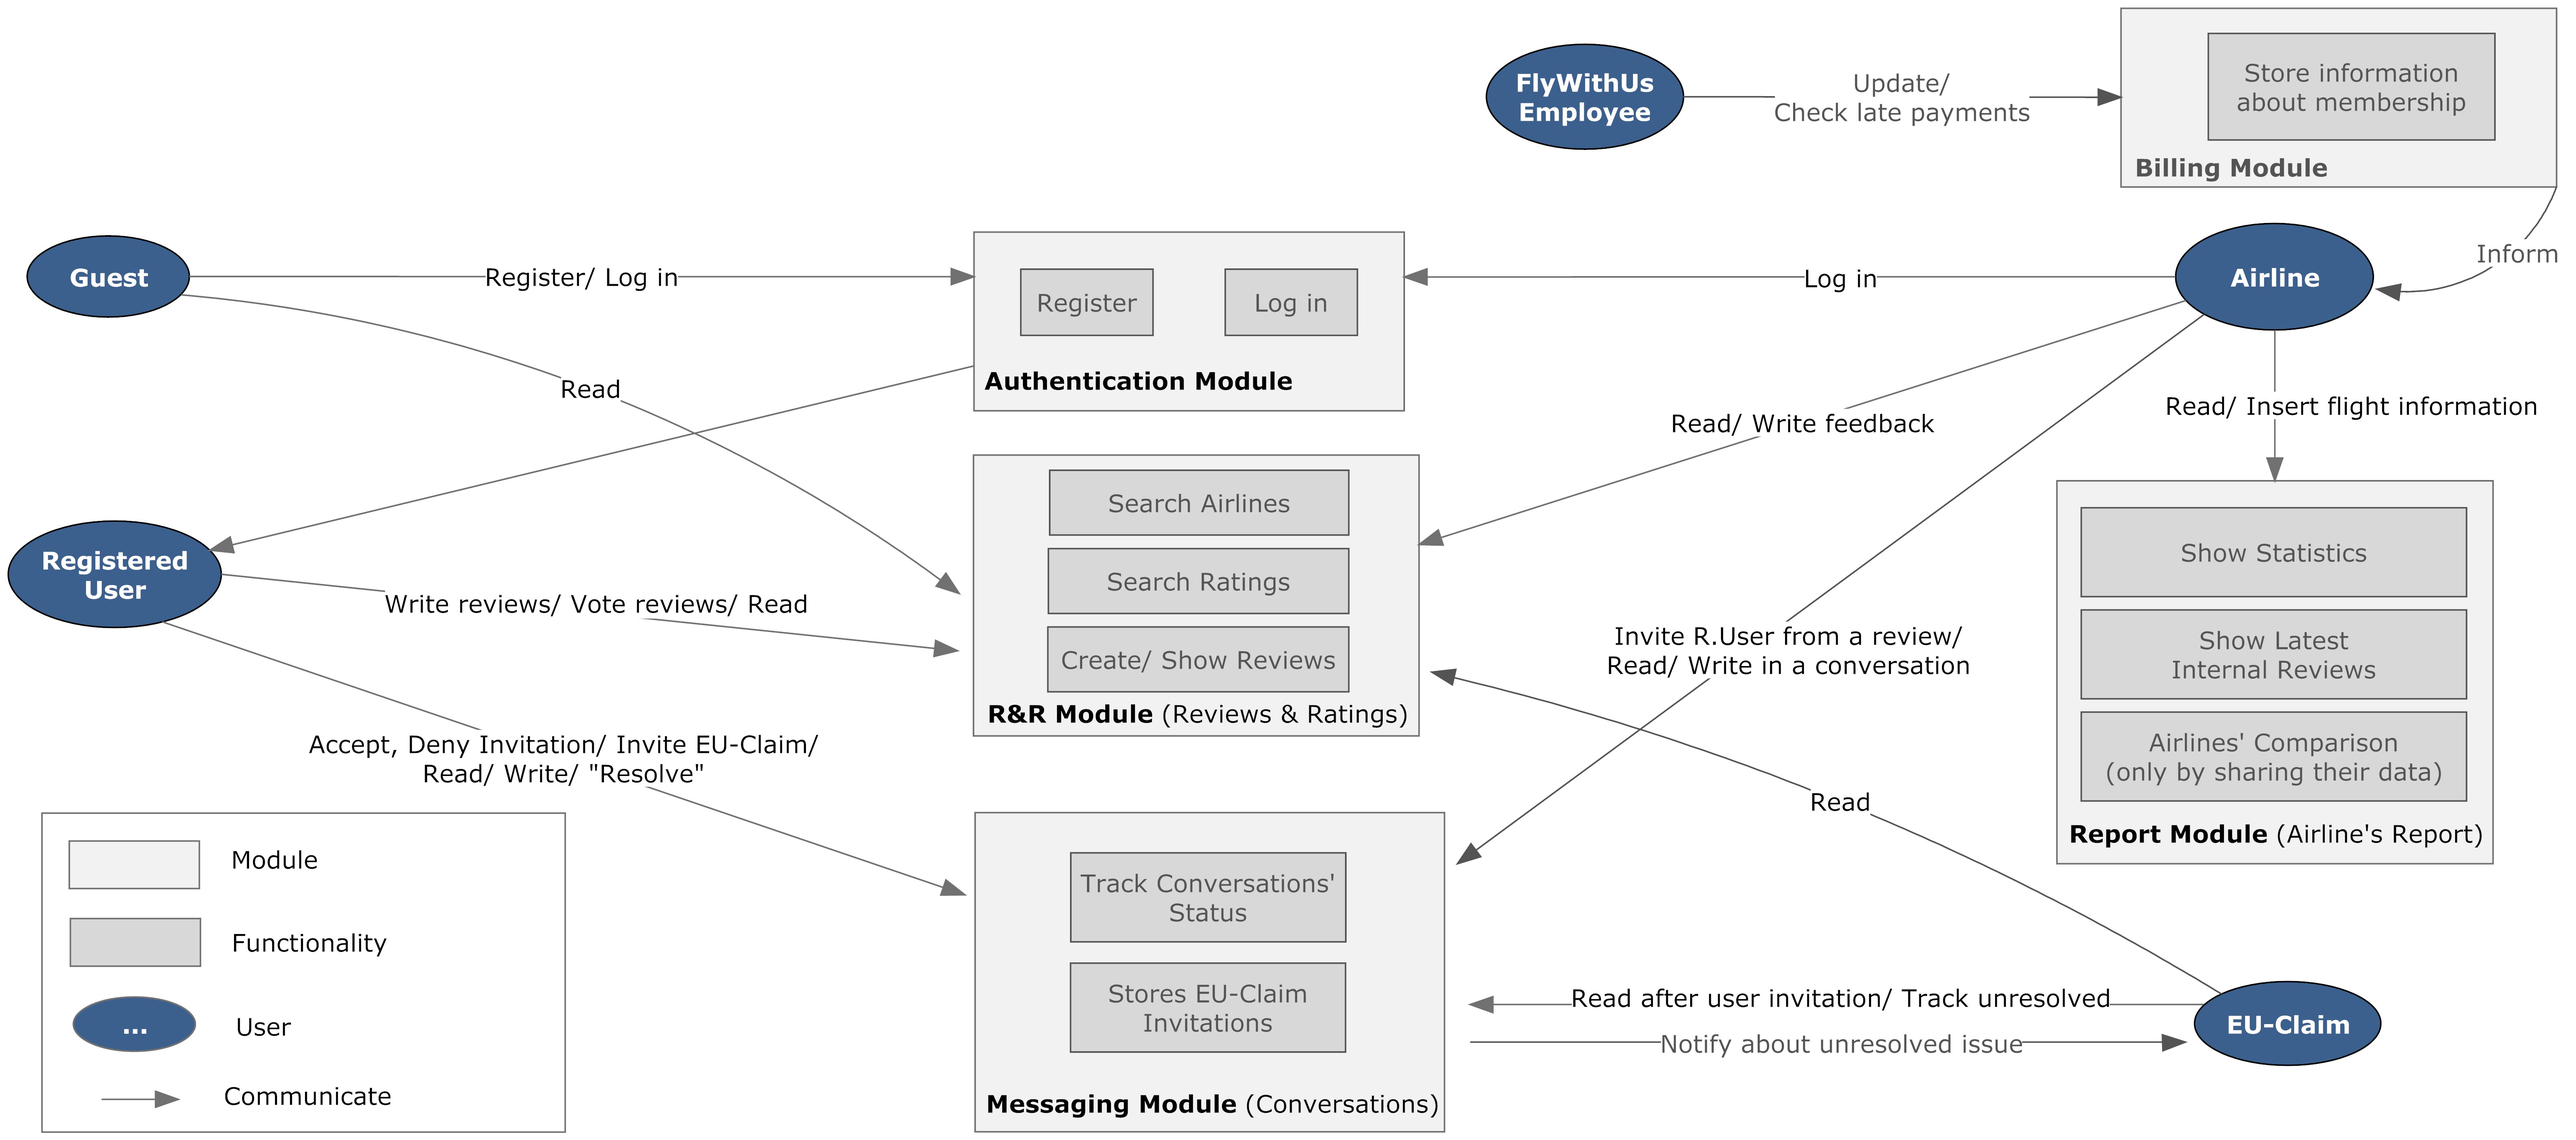
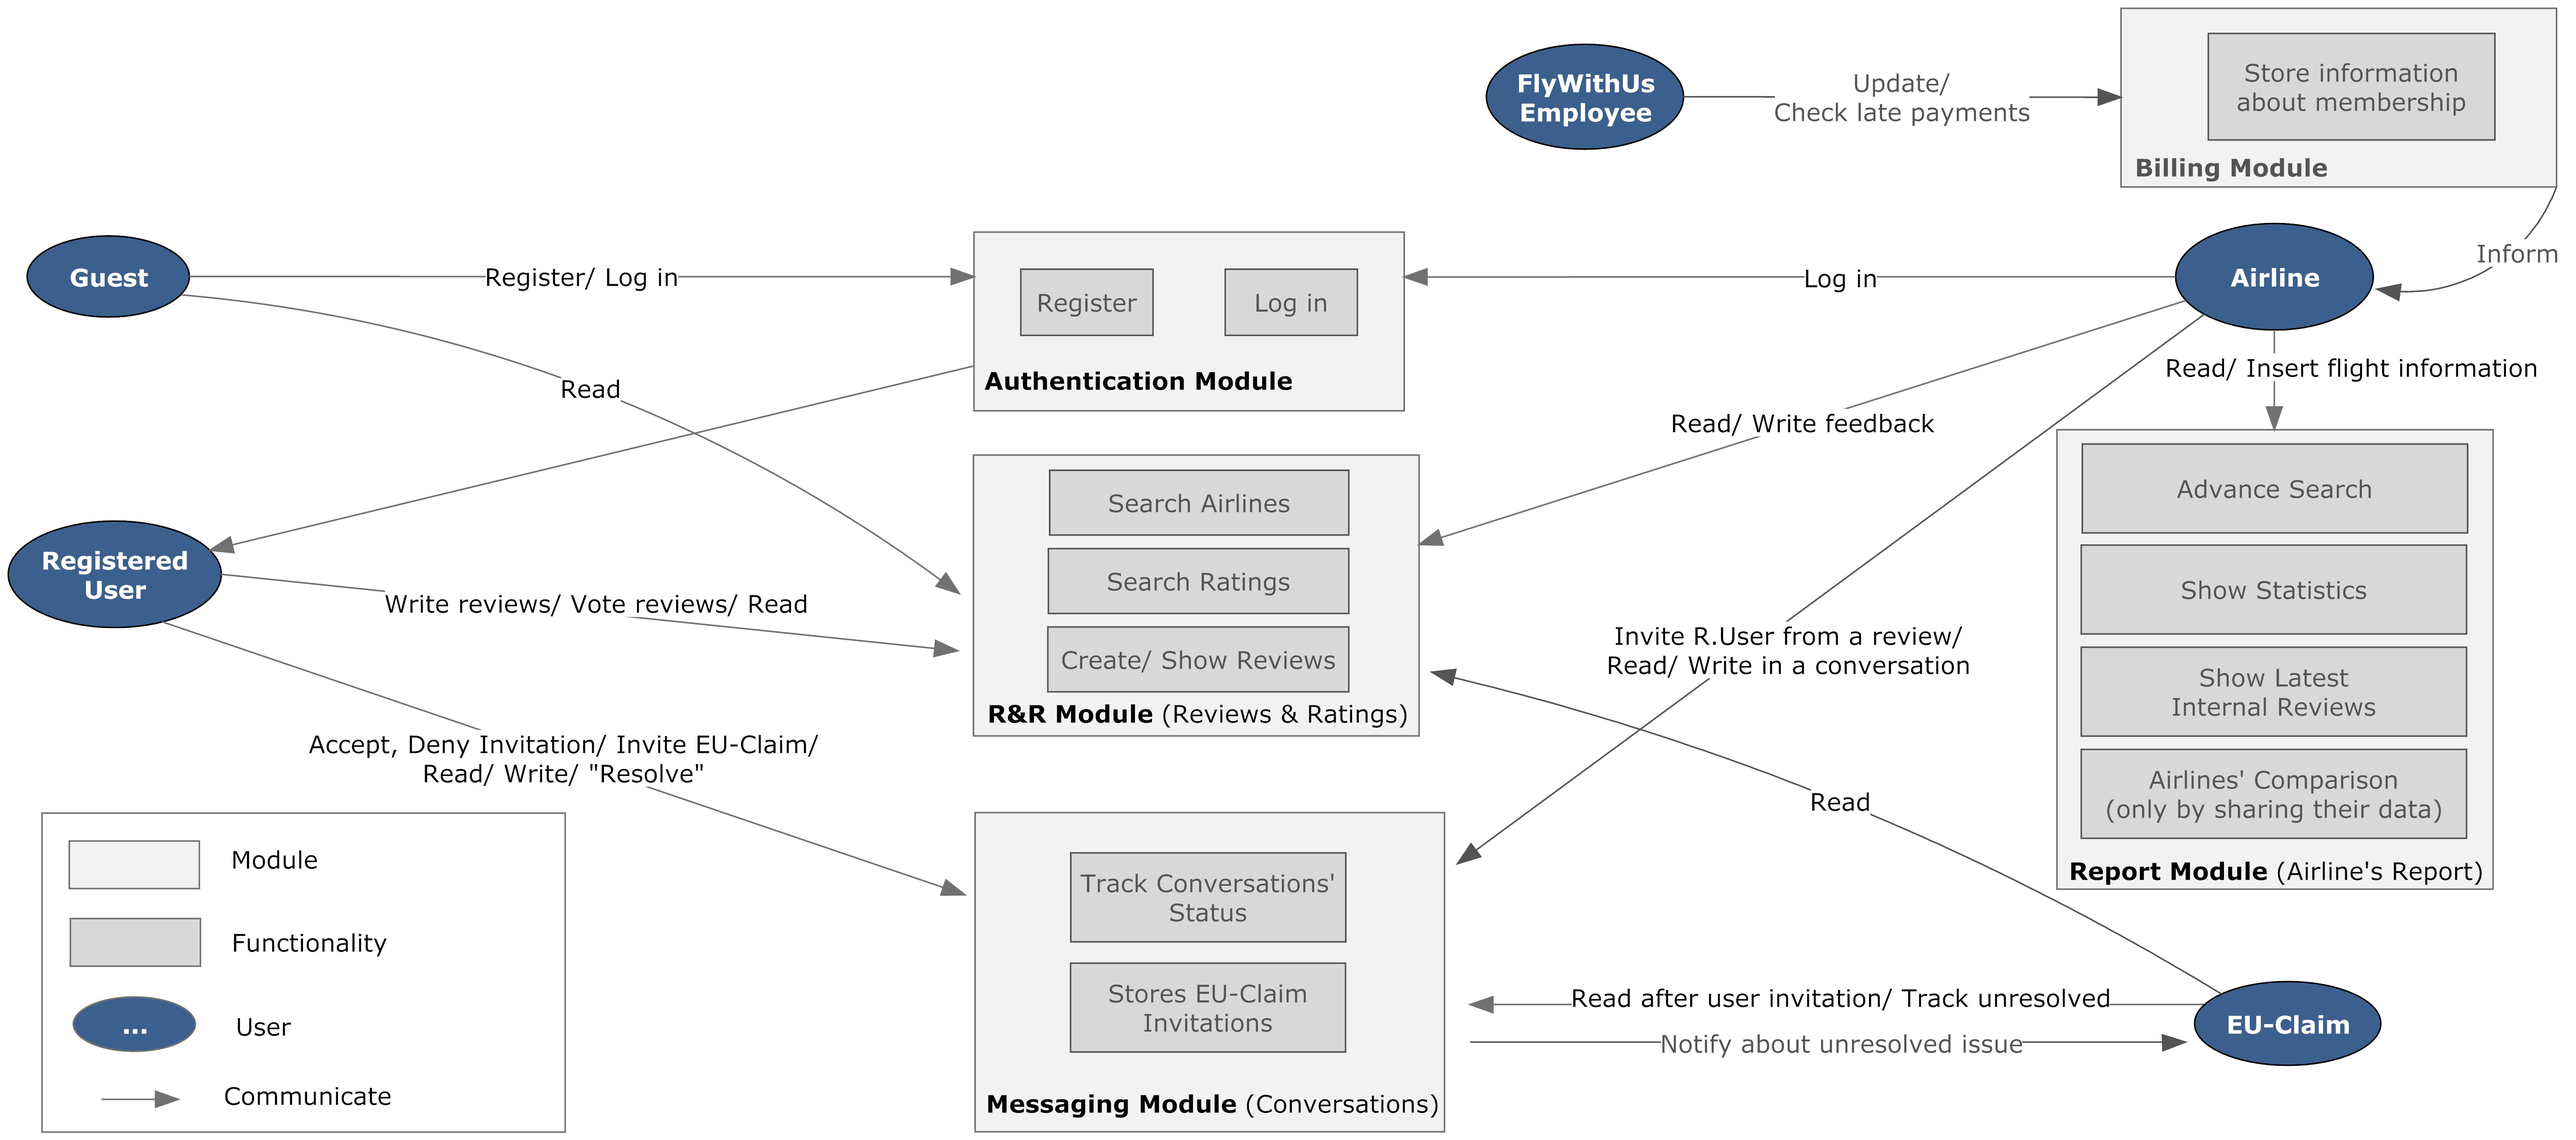
Functinal view rational and viewpoint

Changed region(s): [[0.7794, 0.3094, 0.9665, 0.7735], [0.5923, 0.0619, 0.6235, 0.1238]]

diff --git a/Assignment 4/FunctionalView.tex b/Assignment 4/FunctionalView.tex
@@ -5,7 +5,7 @@
 \begin{itemize}
 \item Related stakeholders: KLM, Initiator, EU-Claim
 \item Related Concerns: Users of the system, Available functionality to each user group, Grouping functionalities
-\item Related design decisions: EU-Claim can see private conversation after invitation, Online payment system (Discarded), Functionalities of Reporting System.
+\item Related design decisions: EU-Claim can see private conversation after invitation, Billing system added, Functionalities of Reporting System.
 \end{itemize}
 
 \newpage
@@ -17,14 +17,13 @@
 \end{figure}
 \end{landscape}
 
-The functional viewpoint (Fig.~\ref{fig:functional}) illustrates the functionality supported by the system and its connections to the users. The direction of the arrows shows the initiator of its connection, for example EU-Claim can monitor a conversation and the system notifies EU-Claim about an issue that has been unresolved for a configurable period of time. The functionalities that are based in the same entities of the system are grouped together to help the reader understand their connections. For example, all the functionalities 
- provided only to airlines are included in a {\em report} as a result these functionalities are grouped in the {\em Report System}. The association between the subsystems presented in the viewpoint and the functional requirements listed in table~\ref{} is shown in table~\ref{tab:associateSysReq}.
+The functional viewpoint (Fig.~\ref{fig:functional}) illustrates the functionality supported by the system and its connections to the users. The direction of the arrows shows who or what initiates this connection, for example EU-Claim can monitor a conversation (initiated by EU-Claim) but  the system notifies EU-Claim about an issue that has been unresolved for a configurable period of time (initiated by Messaging module). The functionalities that are based in the same entities of the system are grouped together to help the reader understand their connections. For example, all the functionalities  provided only to airlines are included in a {\em report} as a result these functionalities are grouped in the Report module. The association between the modules presented in the viewpoint and the functional requirements listed in table~\ref{} is shown in table~\ref{tab:associateSysReq}.
 
 \begin{longtable}{| l | l | l |}
 \label{tab:associateSysReq}
 \textbf{Requirement} & \textbf{System} & \textbf{Users} \\ \hline
 Show ratings & Review System & Guests, Registered Users  \\ \hline
-Post/Read/Search/Vote!!!! & Review System & Registered Users \\ \hline
+Post/Read/Search/Vote & Review System & Registered Users \\ \hline
 Messaging & Messaging System & Registered Users, Airlines, EUC\\ \hline
 Reporting  & Reporting System & Airlines \\ \hline
 Flight Information & Reporting System & Airlines  \\ \hline
@@ -32,6 +31,32 @@ Statistics & Reporting System & Airlines \\ \hline
 
 \end{longtable}
 
- Furthermore, the viewpoint also presents the availability of the functionalities to each user group and the communication between these groups through the system. For instance, a guest can register or log in the system and  become a registered user, or an airline can invite a user to a private conversation in order to resolve a potential complaint; then the user can accept the invitation and he/ she can 
- also invite EU-Claim to monitor their conversation to ensure the integrity of this process.
+ Furthermore, the viewpoint also presents the availability of the functionalities to each user group and the communication between these groups through the system. For instance, a guest can register or log in the system and  become a registered user, or an airline can invite a user to a private conversation in order to resolve a potential complaint; then the user can accept the invitation and he can  also invite EU-Claim to monitor their conversation to ensure the integrity of this process.
 
+Each entity presented in the viewpoint is discussed in the following sections.
+
+\subsubsection{Users}
+\paragraph{Guests.} A guest is a user of our system with no account. He can read reviews and search for ratings using the R\&R module. Furthermore, a guest can  register or log in the Authentication module.
+\paragraph{Registered User.} A registered user can read, write and vote reviews and search for rating using the R\&R module. Additionally, he can communicate with an airline through the Messaging module in private, meaning that other parties  (except for EU-Claim and only if it is invited) cannot read this conversation.
+\paragraph{Airlines.} An airline represents the airlines that have payed membership in FlyWithUs. An airline can monitor its progress checking the Report module. Also an airline can see statistics, ratings and search according to flight information it can provide. 
+
+Additionally, as far as customer satisfaction is concerned, an airline can write feedback to a review posted on the R\&R module or invite a user to a private conversation through the Messaging module.
+
+Finally, it can be informed about the status of its membership thought the Billing module.
+
+\paragraph{EU-Claim.} In order to ensure the integrity of the system, EU-Claim will have separate accounts that will enable her to monitor conversations when she is invited and also notify her of a conversation is unresolved for a configurable period of time.
+
+\paragraph{FlyWithUs Employee.} FlyWithUs employee is an employee of FlyWithUs whose responsibility is to update or check the membership status of the airline according to their payments.
+
+\subsubsection{Modules}
+\paragraph{Review \& Rating Module.} This module is responsible for inserting new internal reviews on the system, vote reviews and provides the search interface to the registered users and guests. This module allows searching according to specific rating fields for example which airline has the best food or the best client support, or according to general ratings. 
+
+The R\& R module does not allow the users to  edit or delete their rating in order to preserve the system's consistency and integrity.
+
+\paragraph{Report Module.} This module provides the tools to the airlines to monitor their progress. It shows statistics about the airline progress, the latest reviews on FlyWithUs and also allows the airlines to use advance search, which enables them to insert flight information or other parameters and search through our database.
+
+\paragraph{Messaging Module.} This module is responsible for the private conversations between the registered users and the airlines. At first, an airline declares that wishes to contact the author of a review, then the author is invited to a private conversation. If the author accepts it can invite EU-Claim to monitor this conversation through this module. Additionally, this module keeps track of all the resolved and unresolved issues, it can provide statistics and it can also notify EU-Claim if a conversation has been unresolved for a configurable (by EU-Claim) period of time. Only the affiliated parties of a conversation can read this conversation as a result the Messaging module checks the identity of the user before it grants him access.
+
+\paragraph{Billing Module.} This module is responsible for keeping track of the membership status of the airlines. It will notify both the FlyWithUs employee and the associated airline if there is a late payment and in case that the airline's membership is not renewed it will revoke the airline's access to the Reporting module.
+
+\paragraph{Authentication Module.} This module is responsible for the registration of new users and for signing in existing users and identifying their type.
